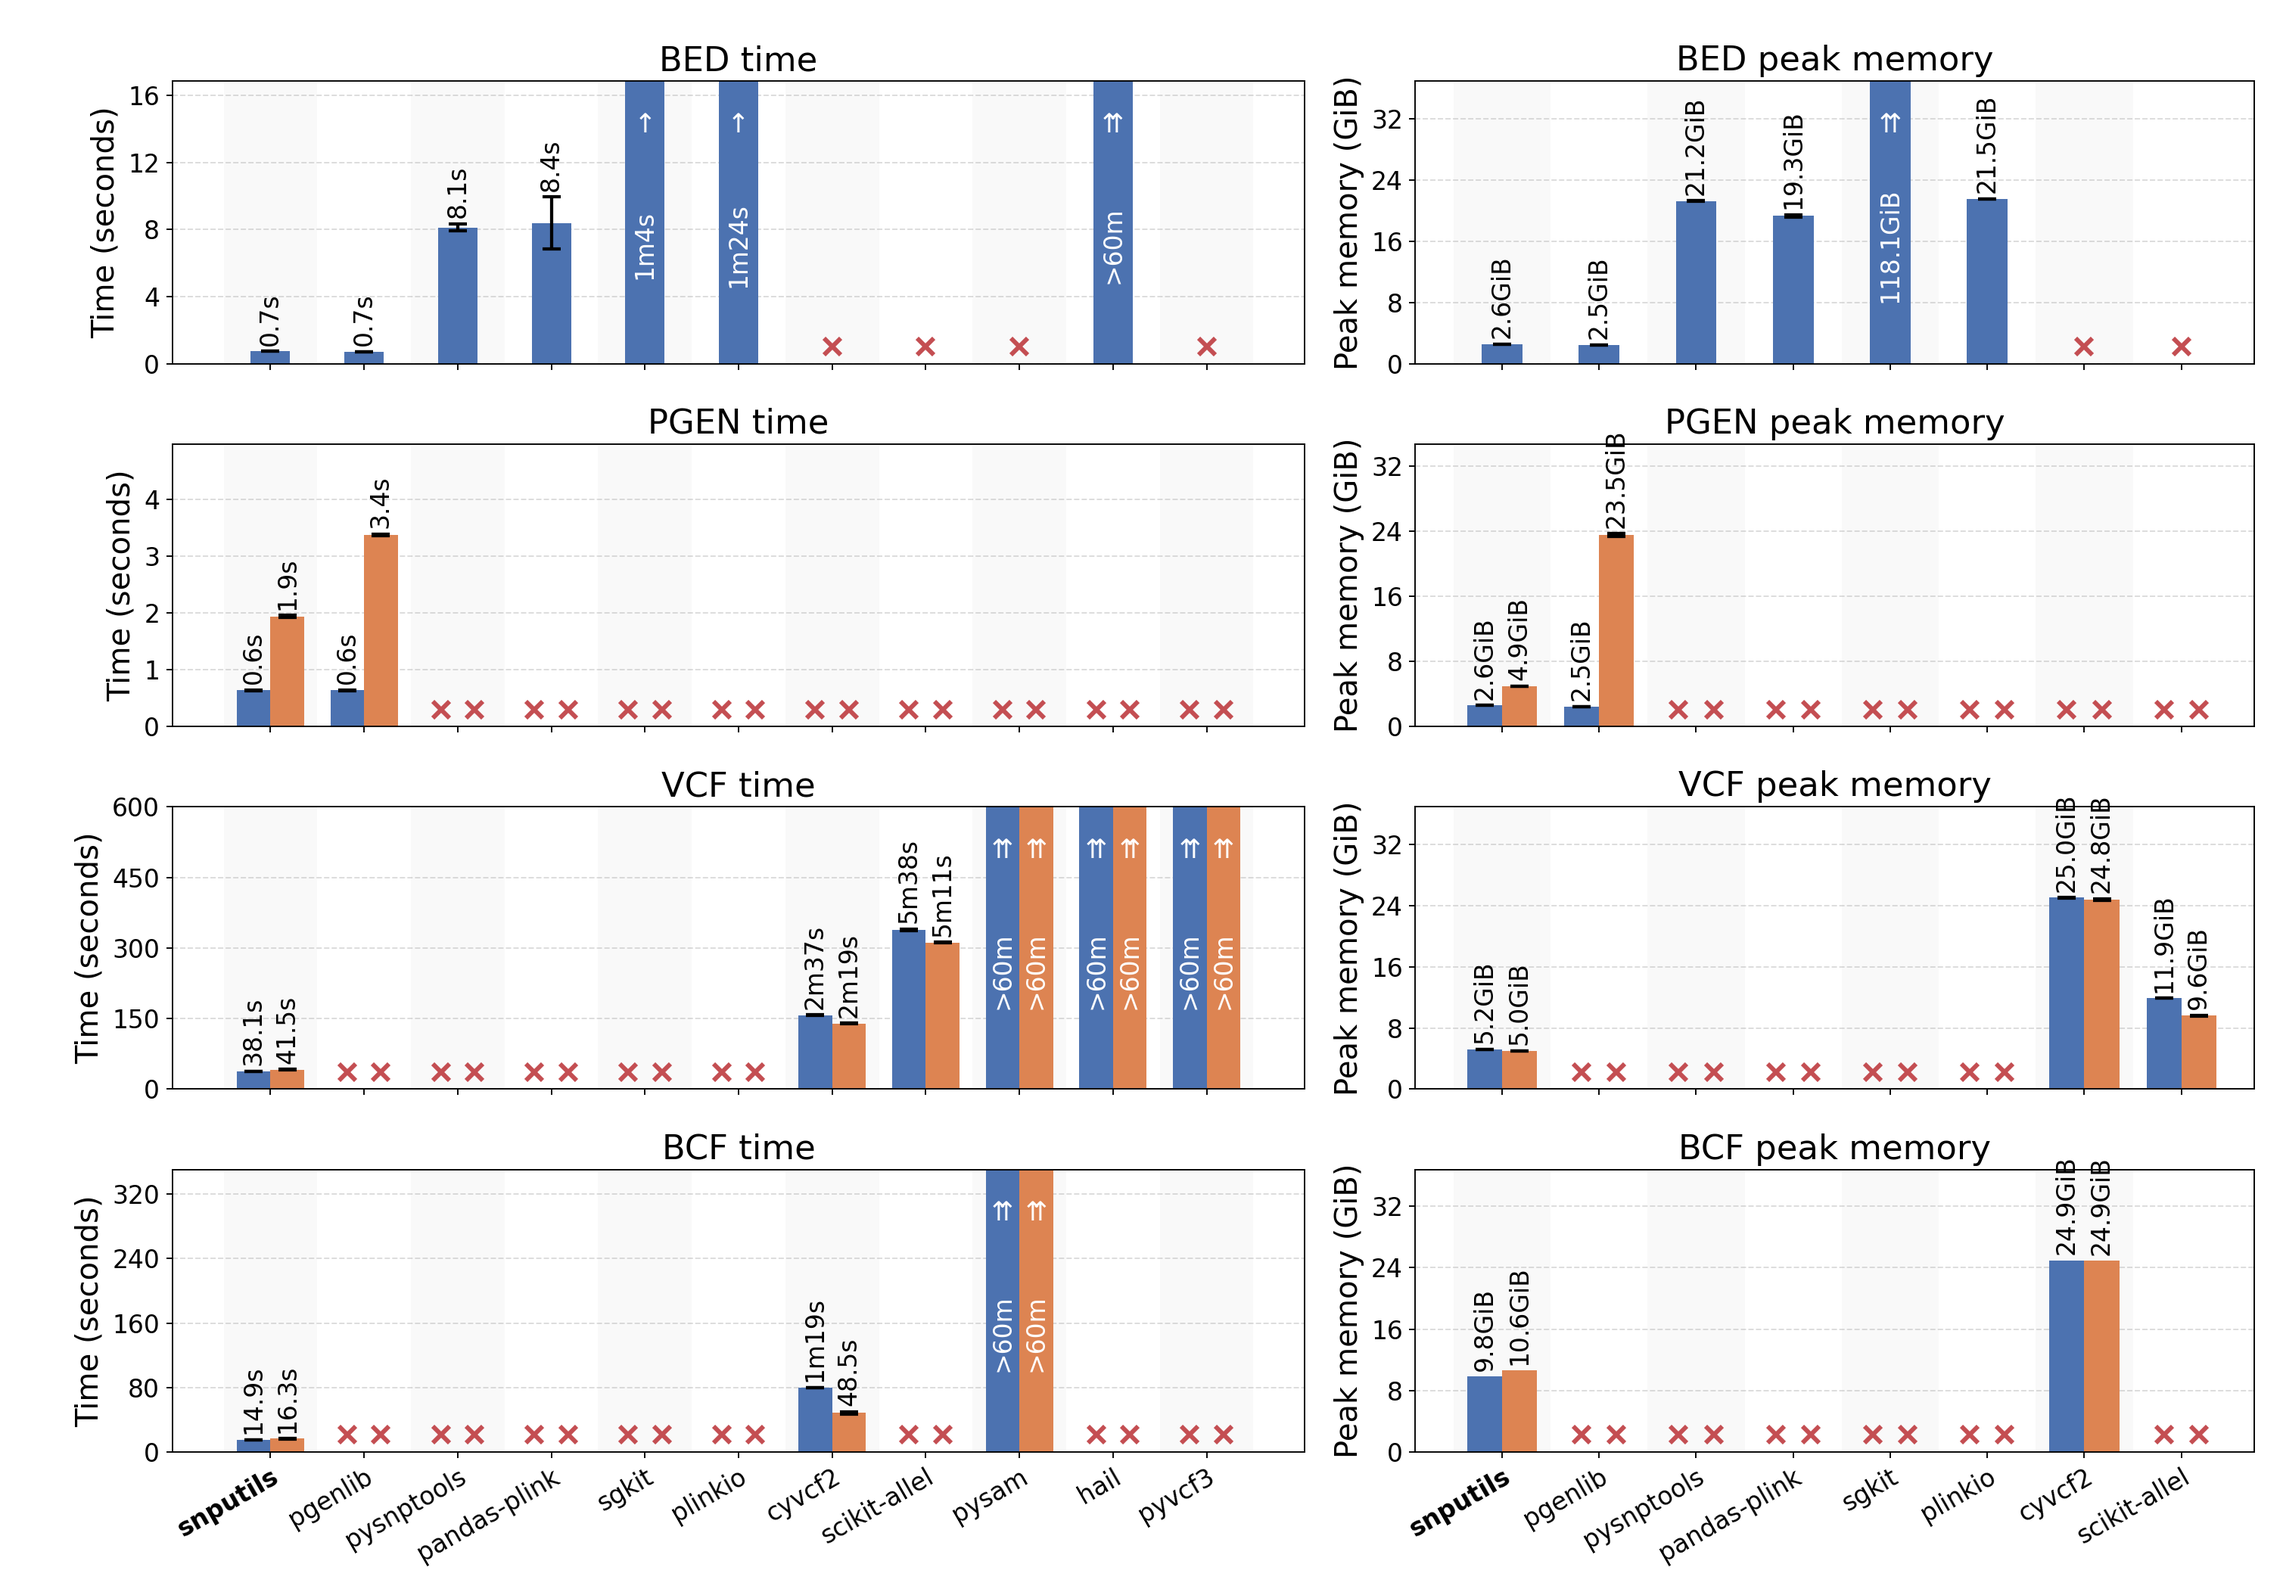
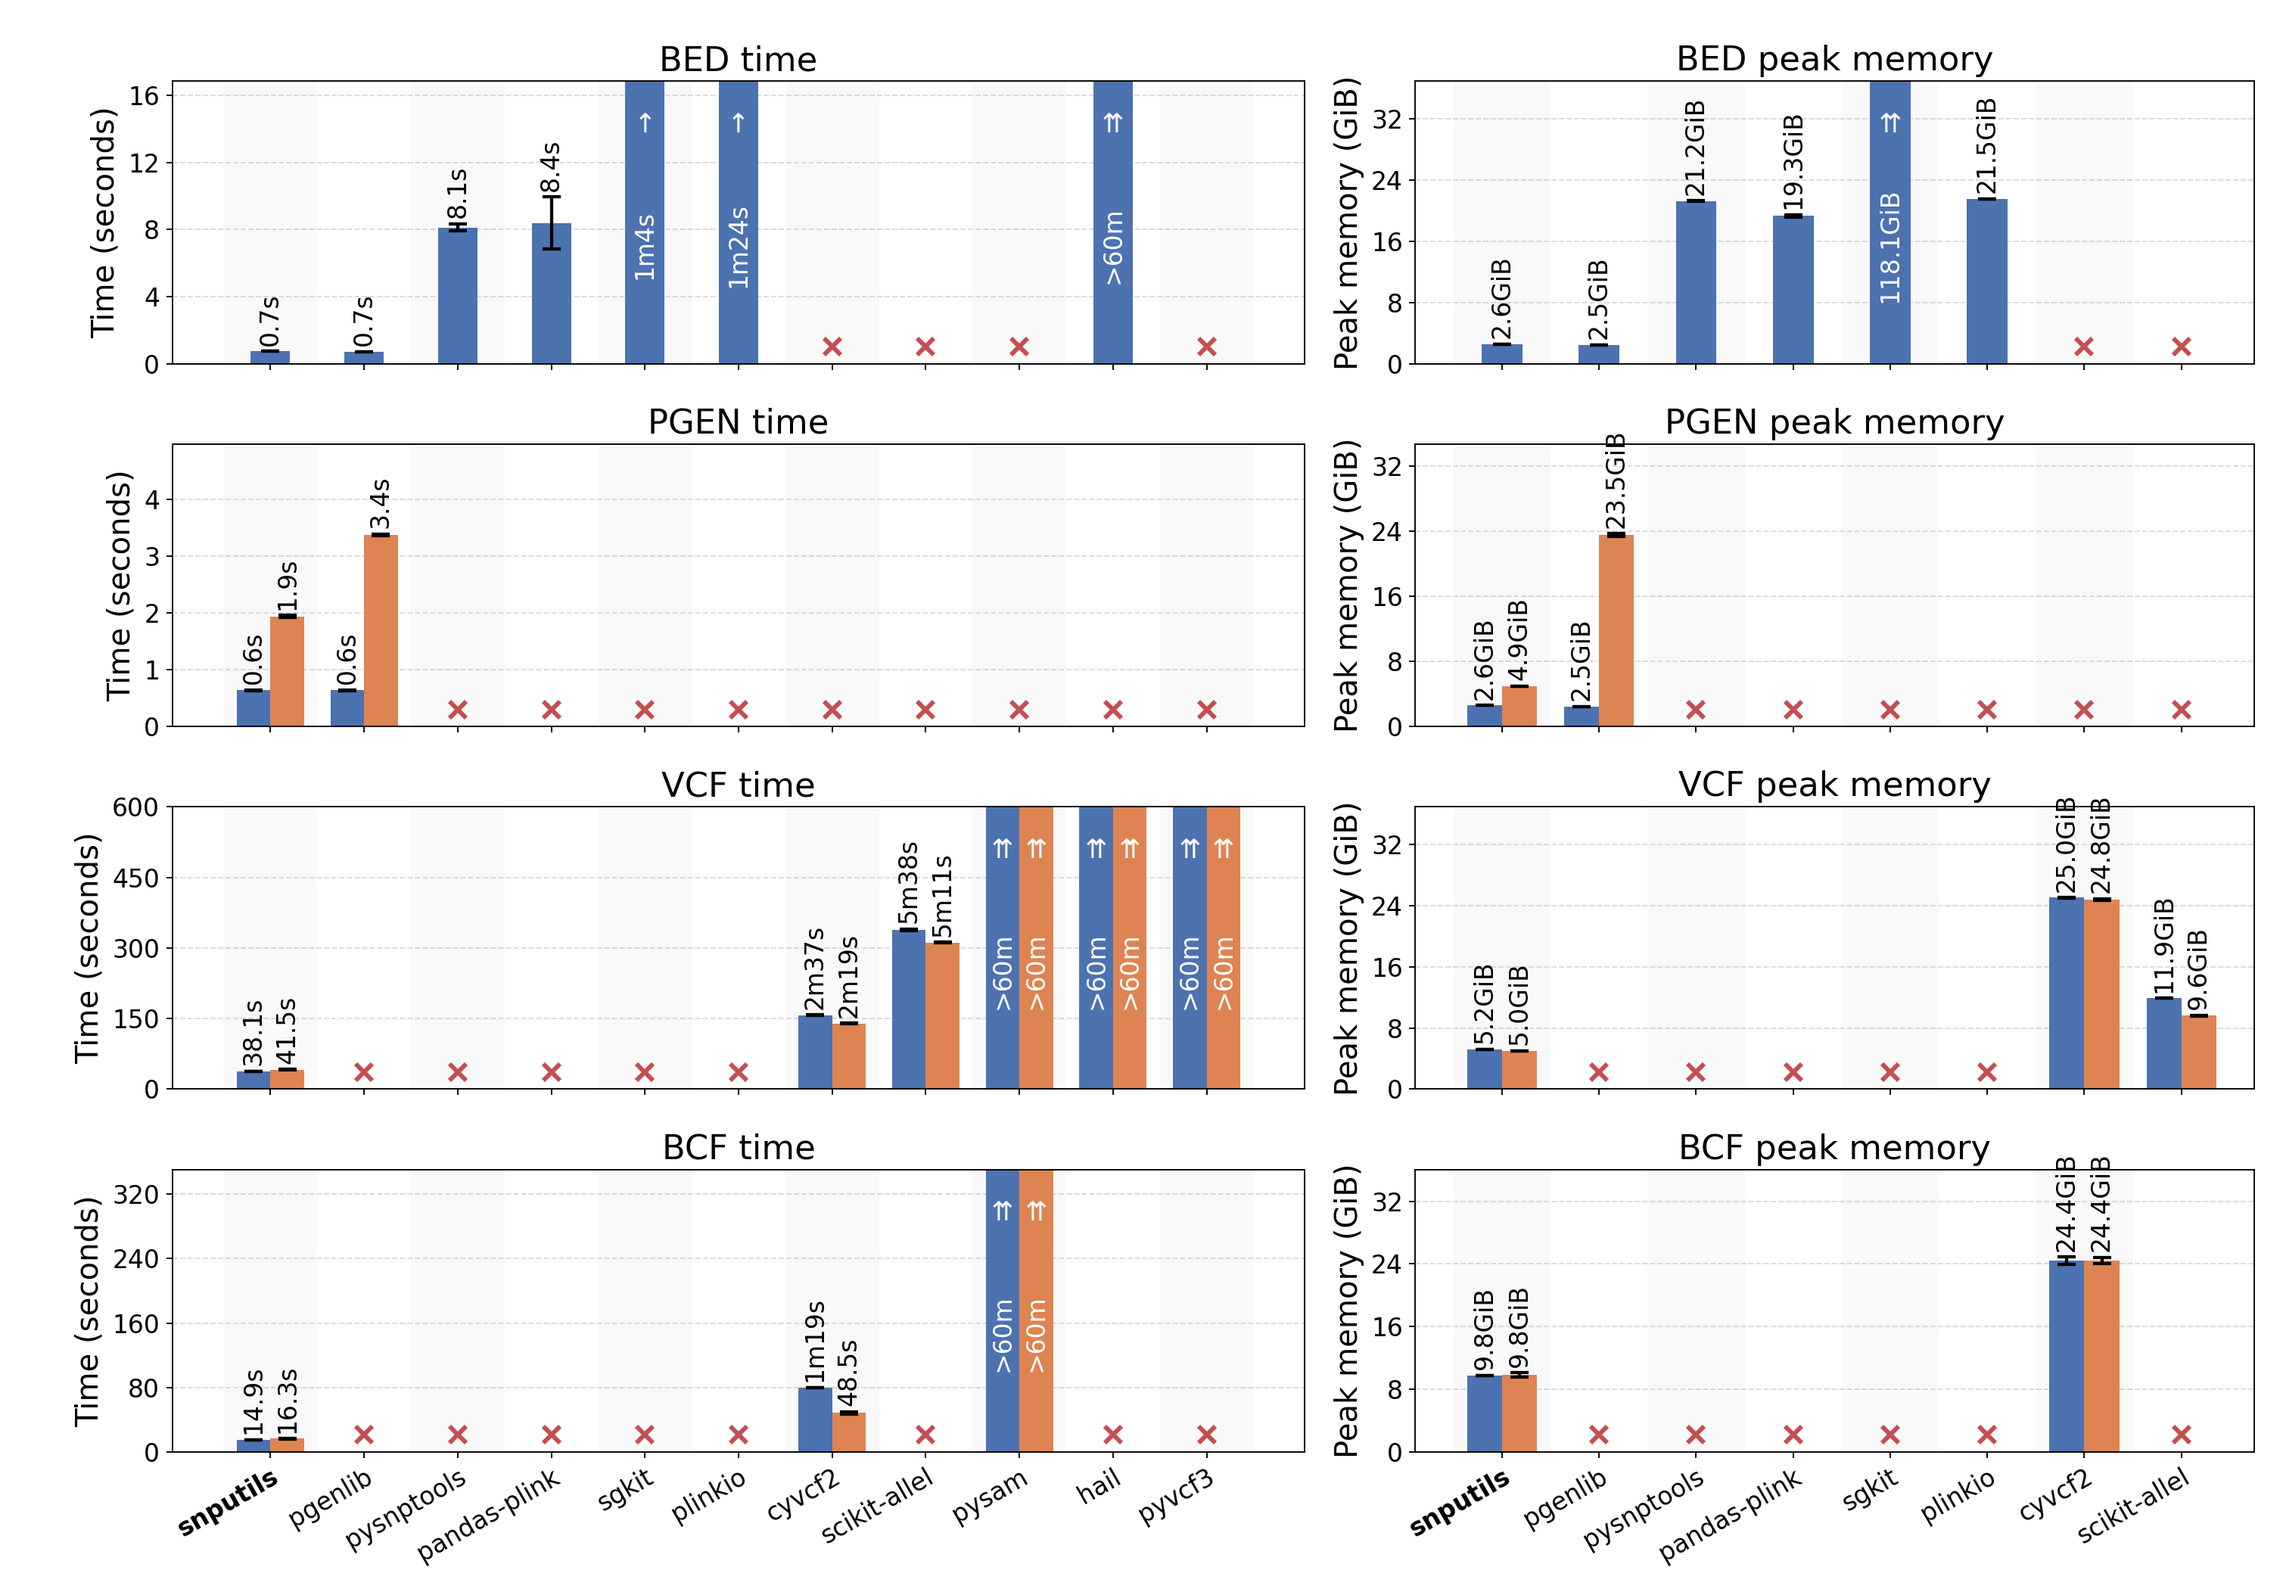
add BCF mem error bars and use one cross instead of two for unsupported formats

diff --git a/benchmark/plot_time_memory.py b/benchmark/plot_time_memory.py
@@ -154,6 +154,18 @@ def _draw_grouped_bars(
         if idx % 2 == 0:
             ax.axvspan(idx - 0.5, idx + 0.5, color="#f2f2f2", alpha=0.45, linewidth=0, zorder=0)
 
+    marker_y = y_top * 0.06
+    unsupported_names = set()
+    if show_false:
+        unsupported_names = {
+            name
+            for name in names
+            if true_values.get(name) is None and false_values.get(name) is None
+        }
+        for idx, name in enumerate(names):
+            if name in unsupported_names:
+                ax.plot(x[idx], marker_y, "x", color=marker_color, markersize=9, mew=2.5)
+
     series = (
         (-width / 2, true_values, "sum_strands=True", colors["true"]),
         (width / 2, false_values, "sum_strands=False", colors["false"]),
@@ -165,7 +177,8 @@ def _draw_grouped_bars(
             entry = values.get(name)
             xpos = x[idx] + offset
             if entry is None:
-                ax.plot(xpos, y_top * 0.06, "x", color=marker_color, markersize=9, mew=2.5)
+                if name not in unsupported_names:
+                    ax.plot(xpos, marker_y, "x", color=marker_color, markersize=9, mew=2.5)
                 continue
 
             raw_value, raw_std = entry
